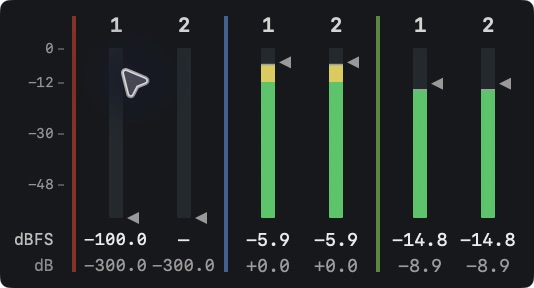
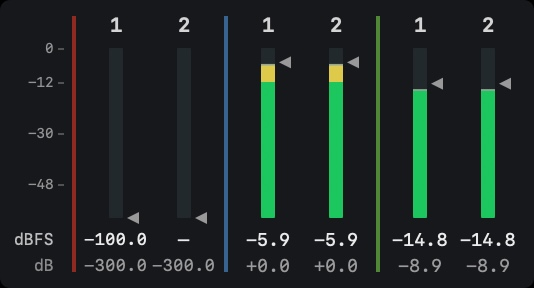
Clean up Totalmix Mini Viewer detail page

diff --git a/tools/totalmix-mini-viewer/index.html b/tools/totalmix-mini-viewer/index.html
@@ -21,7 +21,7 @@
         <figcaption class="caption"><strong>Compact window.</strong> Meters only.</figcaption>
       </figure>
       <figure>
-        <a href="../../assets/totalmix-viewer-detailed.jpg"><img src="../../assets/totalmix-viewer-detailed.jpg" width="534" height="288" alt="Expanded viewer showing channel numbers, live signal levels, and fader positions while audio plays." loading="lazy"></a>
+        <a href="../../assets/totalmix-viewer-detailed.jpg?v=6d8f163"><img src="../../assets/totalmix-viewer-detailed.jpg?v=6d8f163" width="534" height="288" alt="Expanded viewer showing channel numbers, signal levels, and fader positions." loading="lazy"></a>
         <figcaption class="caption"><strong>Detailed window.</strong> Channel numbers, levels in dBFS, and fader values in dB.</figcaption>
       </figure>
     </div>
@@ -33,7 +33,6 @@
     <ul>
       <li>macOS 13 or later on Apple silicon or Intel.</li>
       <li>RME Totalmix FX 2.1 (shown as 2.10) or later with Global OSC enabled.</li>
-      <li>Tested with the RME Fireface UCX II.</li>
     </ul>
   </section>
   <section class="content-section" id="installation">
@@ -45,7 +44,6 @@
     </ol>
     <p>Approve only a copy you downloaded directly from this page. After approval, you can open that copy normally. <a href="https://support.apple.com/en-us/102445">Apple’s guide to opening apps on Mac</a></p>
     <p>In the viewer, use <strong>Connection Help</strong> to set up Global OSC in Totalmix FX on the same Mac.</p>
-    <p>The free beta provides read-only monitoring and has no time limit.</p>
   </section>
 </div>
 </main><footer class="footer"><div class="footer-links"><a href="../../support/index.html">App Support</a><a href="../../privacy/index.html">Privacy</a><a href="../../about/index.html#contact">Contact</a></div></footer></div></body></html>
